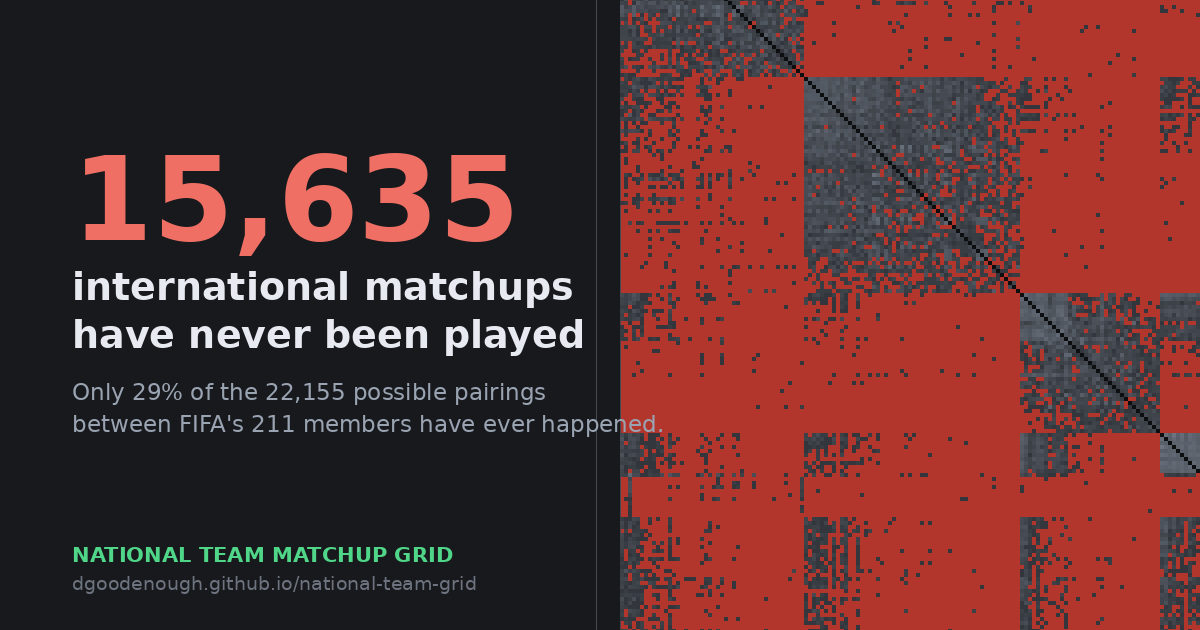
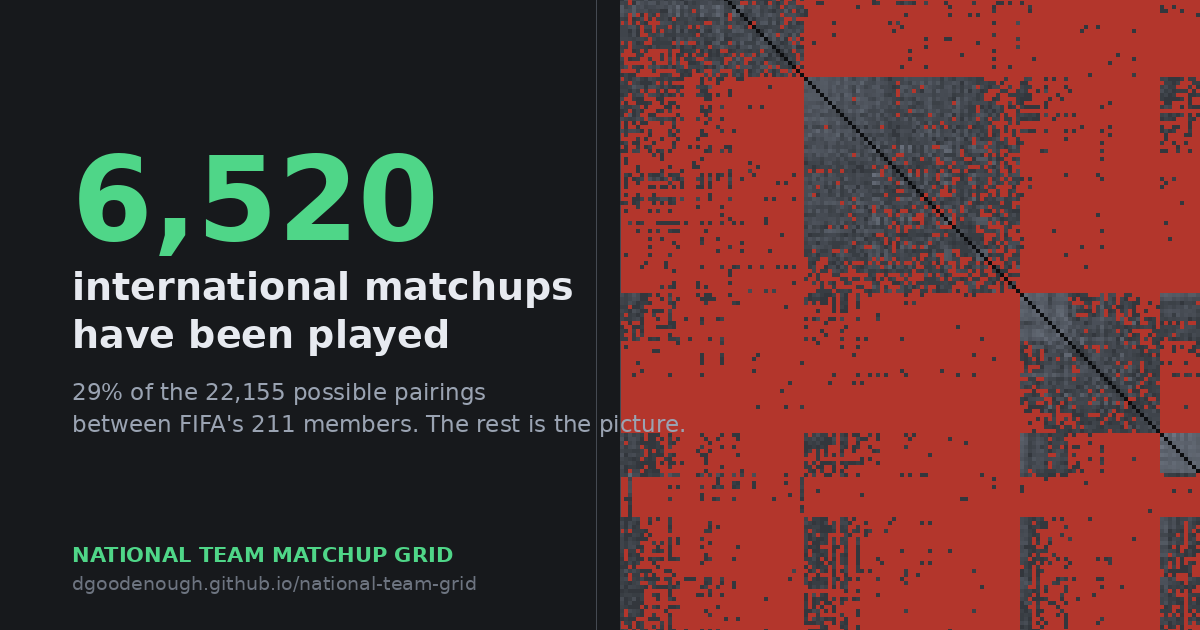
Count the matchups that have happened, not the ones that have not (#5)
The landing state led with 15,635 and the word "never". The grid already
shows the absence in red, so the headline counting it too made the whole
page an argument about what is missing.

The grid headline, the single-team headline, the share card, the meta and
og and twitter descriptions, the panel subtitle and the README's opening
figure all count what has been played now, and the headline number is
green rather than red. The red grid stays, and the README keeps its
never-played pairings: those are concrete facts and the hook, not a
framing of a statistic.

index.html was never a build output, so the 15,635 in its meta description
was typed in by hand and had no way to stay true as matches were played.
build.py now stamps the live figures into those four tags the same way
render_hero.py stamps the card, the refresh workflow commits the result,
and a test fails if they drift.

The headline drops "between FIFA's 211 members" under a confederation
filter or a scrubbed year, where the count is a subset rather than FIFA.
Also fixed a verb that agreed with the opponent count instead of the team.

Changed region(s): [[0.0617, 0.2413, 0.4317, 0.4222], [0.0617, 0.6032, 0.5858, 0.6937], [0.1542, 0.5127, 0.4933, 0.573]]

diff --git a/docs/app.js b/docs/app.js
@@ -1298,7 +1298,7 @@ function renderTeamFocus(teamId) {
 
   const headline = $("headline");
   headline.classList.toggle("combined", combined);
-  headline.classList.remove("allplayed");
+  headline.classList.remove("allplayed", "played");
   if (combined) {
     const both = played.filter(r => r.cat === 3).length;
     headline.innerHTML = `<span class="big">${both}</span>`
@@ -1310,9 +1310,11 @@ function renderTeamFocus(teamId) {
       + `<span class="rest"><b>${esc(team.name)}</b> has never played a <b>${esc(gLabel)}</b> `
       + `international against anyone.</span>`;
   } else {
-    headline.innerHTML = `<span class="big">${never.length}</span>`
-      + `<span class="rest">opponents <b>${esc(team.name)}</b> has never played `
-      + `(${esc(gLabel)}) — they've met <b>${played.length}</b> of ${rows.length} possible.</span>`;
+    // Same framing as the grid headline: count the opponents met, not the ones missing.
+    headline.classList.add("played");
+    headline.innerHTML = `<span class="big">${played.length}</span>`
+      + `<span class="rest">${pl(played.length, "opponent")} <b>${esc(team.name)}</b> `
+      + `has played (${esc(gLabel)}), out of ${rows.length} possible.</span>`;
   }
 }
 
@@ -1707,7 +1709,7 @@ function updateStats() { updateHeadline(); }
 
 function updateHeadline() {
   const headline = $("headline");
-  headline.classList.remove("allplayed", "combined");
+  headline.classList.remove("allplayed", "combined", "played");
   if (S.view === "fixtures") return headlineFixtures(headline);
   if (S.view === "oneoffs") return headlineOneOffs(headline);
   if (S.view === "misses") return headlineMisses(headline);
@@ -1717,8 +1719,9 @@ function updateHeadline() {
 }
 
 function headlineGrid(headline) {
-  const { total } = metCounts();
-  const met = S.gender === "men" ? metCounts().men : metCounts().women;
+  const counts = metCounts();
+  const total = counts.total;
+  const met = S.gender === "men" ? counts.men : counts.women;
   const never = total - met;
   const g = genderWord();
   const filter = (S.manual.size || S.showConfeds.size < S.confedOrder.length) ? " in this view" : "";
@@ -1734,11 +1737,17 @@ function headlineGrid(headline) {
       + `${pl(total, "matchup")}${esc(scope)} has been played — no unplayed pairings here.</span>`;
   } else {
     const pct = 100 * met / total;
-    headline.innerHTML = `<span class="big">${num(never)}</span>`
-      + `<span class="rest"><b>${esc(g)}</b> ${pl(never, "matchup")} ${never === 1 ? "has" : "have"} `
-      + `<b>never</b> been played${esc(scope)} — just <b>${pct.toFixed(1)}%</b> of the `
-      + `${num(total)} possible ${pl(total, "pairing")} `
-      + `${total === 1 ? "has" : "have"} ever happened.</span>`;
+    // Lead with what has happened. The grid already shows the absence; the headline does
+    // not need to count it too.
+    headline.classList.add("played");
+    // Only name the membership when the grid really is all of it: under a filter the count
+    // is the subset, not FIFA, and scrubbed back it is an anachronism.
+    const whose = (!filter && present())
+      ? ` between FIFA's ${num(S.order.length)} members` : "";
+    headline.innerHTML = `<span class="big">${num(met)}</span>`
+      + `<span class="rest"><b>${esc(g)}</b> ${pl(met, "matchup")} ${met === 1 ? "has" : "have"} `
+      + `been played${esc(scope)}, <b>${pct.toFixed(1)}%</b> of the ${num(total)} possible `
+      + `${pl(total, "pairing")}${whose}.</span>`;
   }
 }
 

diff --git a/docs/index.html b/docs/index.html
@@ -4,22 +4,22 @@
 <meta charset="utf-8" />
 <meta name="viewport" content="width=device-width, initial-scale=1, viewport-fit=cover" />
 <title>National Team Matchup Grid</title>
-<meta name="description" content="A Scorigami-style grid of every international football matchup — which national teams have and haven't played each other. 15,635 men's pairings have never happened." />
+<meta name="description" content="A Scorigami-style grid of every international football matchup. Every FIFA nation is a row and a column, and 6,520 of the 22,155 possible pairings between the 211 members have been played." />
 <link rel="canonical" href="https://dgoodenough.github.io/national-team-grid/" />
 
 <!-- Share card. Absolute URLs: crawlers do not resolve relative ones. -->
 <meta property="og:type" content="website" />
 <meta property="og:site_name" content="National Team Matchup Grid" />
 <meta property="og:title" content="National Team Matchup Grid" />
-<meta property="og:description" content="Every FIFA nation is a row and a column. The picture is the negative space — the matchups that have never happened." />
+<meta property="og:description" content="Every FIFA nation is a row and a column. 6,520 of the 22,155 possible matchups have been played." />
 <meta property="og:url" content="https://dgoodenough.github.io/national-team-grid/" />
 <meta property="og:image" content="https://dgoodenough.github.io/national-team-grid/assets/og.png" />
 <meta property="og:image:width" content="1200" />
 <meta property="og:image:height" content="630" />
-<meta property="og:image:alt" content="A 211x211 grid of international football matchups. Most of it is flooded red for the pairings that have never been played; the grey blocks are the ones that have. The headline reads 15,635 international matchups have never been played." />
+<meta property="og:image:alt" content="A 211 by 211 grid of international football matchups. Red marks a pairing the two teams have never played, grey one they have, and most of the grid is red. The headline reads 6,520 international matchups have been played." />
 <meta name="twitter:card" content="summary_large_image" />
 <meta name="twitter:title" content="National Team Matchup Grid" />
-<meta name="twitter:description" content="Every FIFA nation is a row and a column. The picture is the negative space — the matchups that have never happened." />
+<meta name="twitter:description" content="Every FIFA nation is a row and a column. 6,520 of the 22,155 possible matchups have been played." />
 <meta name="twitter:image" content="https://dgoodenough.github.io/national-team-grid/assets/og.png" />
 
 <link rel="icon" type="image/svg+xml" href="assets/favicon.svg" />
@@ -40,7 +40,7 @@
   <aside id="panel">
     <header>
       <h1>Matchup Grid</h1>
-      <p class="sub">Which national teams have <em>never</em> played each other.</p>
+      <p class="sub">Which national teams have <em>played</em> each other.</p>
     </header>
 
     <section class="ctl">

diff --git a/docs/style.css b/docs/style.css
@@ -235,6 +235,7 @@ body[data-never="1"] #sw-never { background: var(--never-hi); border-color: var(
 #headline .rest { font-size: .95rem; color: var(--band-ink); max-width: 60ch; }
 #headline .rest b { color: var(--pos-on-band); }
 #headline.allplayed .big { color: var(--pos-on-band); }
+#headline.played .big { color: var(--pos-on-band); }   /* a count of what happened */
 #headline.combined .big { color: var(--pos-on-band); }  /* the "both" count */
 
 /* ---- stage bar: view tabs + toggles ---- */

diff --git a/build.py b/build.py
@@ -28,6 +28,7 @@ from __future__ import annotations
 
 import csv
 import json
+import re
 import sys
 import urllib.request
 from collections import deque
@@ -863,6 +864,55 @@ def write_facts() -> int:
     return len(facts)
 
 
+# --- Derived artifact: the social copy in index.html ---------------------------
+# The share card is regenerated from the data every refresh. The meta description sat next
+# to it quoting a count somebody typed in by hand, which goes wrong the moment two teams
+# play. These four tags are written from the archives instead.
+def social_copy(members: list[dict], played: int, possible: int) -> dict[tuple[str, str], str]:
+    n = len(members)
+    return {
+        ("name", "description"):
+            f"A Scorigami-style grid of every international football matchup. Every FIFA "
+            f"nation is a row and a column, and {played:,} of the {possible:,} possible "
+            f"pairings between the {n} members have been played.",
+        ("property", "og:description"):
+            f"Every FIFA nation is a row and a column. {played:,} of the {possible:,} "
+            f"possible matchups have been played.",
+        ("name", "twitter:description"):
+            f"Every FIFA nation is a row and a column. {played:,} of the {possible:,} "
+            f"possible matchups have been played.",
+        # Alt text describes the picture, which is mostly the red. Accuracy for a screen
+        # reader beats matching the headline's framing.
+        ("property", "og:image:alt"):
+            f"A {n} by {n} grid of international football matchups. Red marks a pairing "
+            f"the two teams have never played, grey one they have, and most of the grid "
+            f"is red. The headline reads {played:,} international matchups have been played.",
+    }
+
+
+def stamp_index_html() -> int:
+    """Write the live figures into docs/index.html's social copy. Returns tags rewritten."""
+    path = ROOT / "docs" / "index.html"
+    html = path.read_text(encoding="utf-8")
+    members = json.loads((OUT / "members.json").read_text(encoding="utf-8"))["members"]
+    n = len(members)
+    possible = n * (n - 1) // 2
+    played = len(json.loads((OUT / "matrix_men.json").read_text(encoding="utf-8"))["pairs"])
+
+    written = 0
+    for (attr, key), text in social_copy(members, played, possible).items():
+        if '"' in text:
+            raise SystemExit(f"social copy for {key} contains a quote; it goes in an attribute")
+        pattern = rf'(<meta {attr}="{re.escape(key)}" content=")[^"]*(")'
+        html, count = re.subn(pattern, lambda m: m.group(1) + text + m.group(2), html)
+        if count != 1:
+            raise SystemExit(f"expected exactly one <meta {attr}=\"{key}\"> in index.html, "
+                             f"found {count}")
+        written += count
+    path.write_text(html, encoding="utf-8")
+    return written
+
+
 # --- Validation --------------------------------------------------------------
 class BuildError(AssertionError):
     """An artifact is wrong enough that it must not be published."""
@@ -1006,6 +1056,7 @@ def derive_only() -> int:
     log(f"  feed.json + feed.xml: {n_feed} upcoming first-ever meetings")
 
     log(f"  facts.json: {write_facts()} facts")
+    log(f"  index.html: {stamp_index_html()} social meta tags restamped")
 
     for note in validate_artifacts():
         log(f"  note: {note}")
@@ -1143,6 +1194,7 @@ def main() -> int:
     # The lines worth repeating, derived from the archives just written so they refresh
     # with the data instead of being hand-maintained prose that quietly goes wrong.
     n_facts = write_facts()
+    n_meta = stamp_index_html()
 
     # --- Report ---
     log("")
@@ -1163,6 +1215,7 @@ def main() -> int:
         f"men {y_men} / {ym_kb:.0f} KB, women {y_wom} / {yw_kb:.0f} KB")
     log(f"  feed.json + feed.xml: {n_feed} upcoming first-ever meetings")
     log(f"  facts.json: {n_facts} facts")
+    log(f"  index.html: {n_meta} social meta tags restamped")
     id_to_name = {m["id"]: m["name"] for m in members}
     log(f"  upcoming FIFAGami (scheduled first meetings): "
         f"men {len(upcoming_json['men'])}, women {len(upcoming_json['women'])}")

diff --git a/tests/test_build.py b/tests/test_build.py
@@ -228,6 +228,27 @@ class TestSiteAssets(unittest.TestCase):
             self.assertTrue(name in html, f"index.html should reference {name}")
             self.assertTrue((docs / name).exists(), f"docs/{name} is missing")
 
+    def test_index_html_social_copy_matches_the_data(self):
+        """build.py stamps live figures into the meta description; they can go stale if the
+        refresh stops committing index.html, and a wrong number there is what gets pasted
+        into Slack and search results."""
+        html = (ROOT / "docs" / "index.html").read_text(encoding="utf-8")
+        members = load("members.json")["members"]
+        n = len(members)
+        possible = n * (n - 1) // 2
+        played = len(load("matrix_men.json")["pairs"])
+        for tag, text in build.social_copy(members, played, possible).items():
+            self.assertTrue(text in html,
+                            f"<meta {tag[0]}=\"{tag[1]}\"> is out of date; "
+                            f"run python build.py --derive")
+
+    def test_the_refresh_commits_the_stamped_index(self):
+        wf = (ROOT / ".github/workflows/refresh.yml").read_text(encoding="utf-8")
+        commit_step = wf.split("git add", 1)[1].split("\n", 1)[0]
+        self.assertTrue("docs/index.html" in commit_step,
+                        f"refresh.yml must commit the restamped index.html; git add is:"
+                        f"{commit_step}")
+
     def test_the_share_card_is_regenerated_by_the_daily_refresh(self):
         """The card quotes a live figure ("15,635 ... have never been played").
 
@@ -437,10 +458,14 @@ class TestReadme(unittest.TestCase):
         self.assertTrue(f"{possible:,} possible men's international fixtures" in self.flat,
                         f"README should quote {possible:,} possible fixtures")
         for g, claimed in (("men", 29), ("women", 13)):
-            pct = round(100 * len(self.counts[g]) / possible)
+            played = len(self.counts[g])
+            pct = round(100 * played / possible)
             self.assertEqual(pct, claimed,
                              f"README claims {claimed}% of the {g}'s fixtures have been "
                              f"played; it is now {pct}%.")
+            # The opening also quotes the raw counts, which move faster than the percentage.
+            self.assertTrue(f"{played:,}" in self.flat,
+                            f"README should quote {played:,} played {g}'s fixtures")
 
     def test_the_counted_claims_still_hold(self):
         import itertools

diff --git a/render_hero.py b/render_hero.py
@@ -212,20 +212,21 @@ def render_og() -> Path:
     d.rectangle([0, 0, PANEL, H], fill=CHROME)
     d.line([(PANEL, 0), (PANEL, H)], fill=hexrgb(GRID_STRONG), width=1)
     x, y = 72, 132
-    # --neg, not --never-hi: the deeper "red floods the void" red is tuned for a wall of
-    # cells, and goes muddy as a headline numeral against near-black at thumbnail size.
-    d.text((x, y), f"{never:,}", font=load_font(116), fill=hexrgb("#ef6f64"))
+    # Green, because the numeral counts what has happened. It is the same green the grid
+    # uses for a played pairing, and it holds up against near-black at thumbnail size.
+    d.text((x, y), f"{len(matrix['pairs']):,}", font=load_font(116),
+           fill=hexrgb(VARS["--ramp-100"]))
     y += 132
     for line, font, fill in (
         ("international matchups", load_font(38), (231, 234, 240)),
-        ("have never been played", load_font(38), (231, 234, 240)),
+        ("have been played", load_font(38), (231, 234, 240)),
     ):
         d.text((x, y), line, font=font, fill=fill)
         y += 48
     y += 18
-    d.text((x, y), f"Only {pct:.0f}% of the {possible:,} possible pairings",
+    d.text((x, y), f"{pct:.0f}% of the {possible:,} possible pairings",
            font=load_font(23, bold=False), fill=(154, 163, 178))
-    d.text((x, y + 32), "between FIFA's 211 members have ever happened.",
+    d.text((x, y + 32), f"between FIFA's {n} members. The rest is the picture.",
            font=load_font(23, bold=False), fill=(154, 163, 178))
 
     d.text((x, H - 88), "NATIONAL TEAM MATCHUP GRID",
@@ -236,7 +237,7 @@ def render_og() -> Path:
 
     out = DOCS / "assets/og.png"
     img.save(out)
-    print(f"wrote {out} ({img.width}x{img.height}, {never:,} never-played)")
+    print(f"wrote {out} ({img.width}x{img.height}, {len(matrix['pairs']):,} played)")
     return out
 
 

diff --git a/README.md b/README.md
@@ -3,12 +3,12 @@
 Morocco have never played Mexico. Spain have never played Senegal. Japan have never played
 Portugal. Seventy-seven pairs of top-40 national teams have never met at all.
 
-Only **29% of the 22,155 possible men's international fixtures have ever been played**. In the
-women's game it is 13%. This is a picture of the rest.
+**6,520 of the 22,155 possible men's international fixtures have been played**, 29% of them.
+In the women's game it is 2,822, or 13%. Every pairing is one cell of this grid.
 
 **▶ Live: https://dgoodenough.github.io/national-team-grid/**
 
-![Every international matchup that has never been played](docs/assets/hero.png)
+![Every possible international matchup, played in grey and unplayed in red](docs/assets/hero.png)
 
 Every current FIFA member is a row and a column. Each cell is a pairing. Red means those two
 national teams have never played each other, in 150 years of trying.
